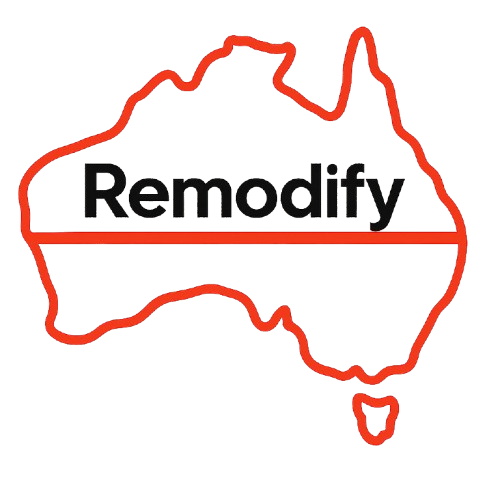
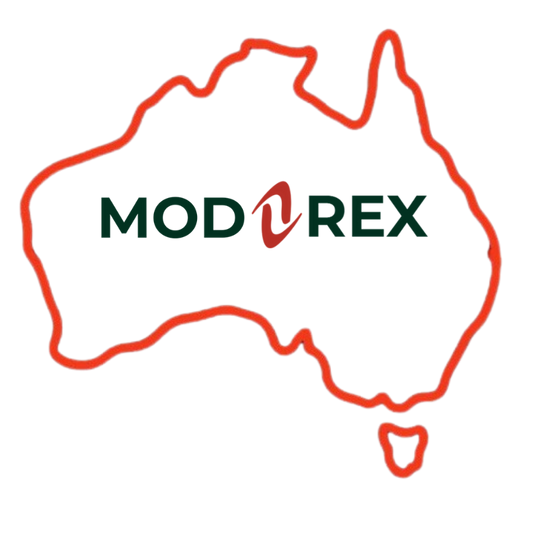
Feature/rob 23 11 (#42)
* changed colour and new logo

* changed_aus_map

Changed region(s): [[0.03, 0.12, 0.96, 0.9], [0.57, 0.03, 0.81, 0.27], [0.42, 0.06, 0.6, 0.18]]

diff --git a/src/pages/Landing.js b/src/pages/Landing.js
@@ -21,6 +21,8 @@ const Landing = () => {
   const [keyword, setKeyword] = useState('');
   const [anyPartSearch, setAnyPartSearch] = useState('');
   const [showManualSearch, setShowManualSearch] = useState(false);
+  const [showSlogan, setShowSlogan] = useState(true);
+  const [isSearchFocused, setIsSearchFocused] = useState(false);
   const navigate = useNavigate();
 
   const carBrands = [
@@ -130,6 +132,22 @@ const Landing = () => {
     navigate(`/results?${queryParams}`);
   };
 
+  const searchInputStyle = {
+    width: '100%',
+    padding: '18px 44px 18px 28px',
+    fontSize: '1.1rem',
+    borderRadius: '30px',
+    border: '1px solid #dee2e6',
+    boxShadow: '0 8px 16px rgba(0,0,0,0.1)',
+    transition: 'all 0.2s ease-in-out',
+  };
+
+  const searchInputStyleFocused = {
+    ...searchInputStyle,
+    borderColor: '#013120',
+    boxShadow: '0 8px 20px rgba(1, 49, 32, 0.2)',
+  };
+
   return (
     <>
       <div className="hero-background">
@@ -139,24 +157,29 @@ const Landing = () => {
     </h1>
 
     <Row className="justify-content-center mb-2">
-      <Col md={10} lg={8}>
+      <Col md={10} lg={10}>
         <Form.Group controlId="formAnyPartSearch" style={{ position: 'relative' }}>
+          {showSlogan && <AnimatedSlogan />}
           <Form.Control
             type="text"
-            placeholder="Search any part"
+            placeholder={showSlogan ? '' : "Search any part"}
             className="form-control-lg"
             value={anyPartSearch}
             onChange={handleAnyPartSearchChange}
-            style={{
-              width: '100%',
-              padding: '14px 44px 14px 20px',
-              fontSize: '1rem',
-              border: '1px solid #ccc',
-              borderRadius: '6px',
+            onFocus={() => {
+              setShowSlogan(false);
+              setIsSearchFocused(true);
             }}
+            onBlur={() => {
+              if (!anyPartSearch) {
+                  setShowSlogan(true);
+              }
+              setIsSearchFocused(false);
+            }}
+            style={isSearchFocused ? searchInputStyleFocused : searchInputStyle}
           />
           <FaSearch
-            style={{ position: 'absolute', right: 18, top: '50%', transform: 'translateY(-50%)', color: '#b01c1c', fontSize: '1.2rem', cursor: 'pointer', zIndex: 2 }}
+            style={{ position: 'absolute', right: 28, top: '50%', transform: 'translateY(-50%)', color: '#013120', fontSize: '1.2rem', cursor: 'pointer', zIndex: 2 }}
             onClick={handleSearch}
             title="Search"
             tabIndex={0}
@@ -276,16 +299,6 @@ const Landing = () => {
     )}
   </Container>
 
-    {/* Slogan below searching fields, hidden when manual search is open */}
-    {!showManualSearch && (
-      <Container>
-        <Row className="justify-content-center">
-          <Col md={10} lg={8}>
-            <AnimatedSlogan />
-          </Col>
-        </Row>
-      </Container>
-    )}
     <div className="curve-divider">
       <svg viewBox="0 0 1440 320" xmlns="http://www.w3.org/2000/svg">
         <path
@@ -364,89 +377,69 @@ const SLOGAN_WORDS = ['mum bus', 'show pony', 'pavement princess', 'weekend warr
 
 // Animated slogan component
 const AnimatedSlogan = () => {
-  const words = SLOGAN_WORDS;
-  const [index, setIndex] = useState(0);
-  const [display, setDisplay] = useState('');
-  const [deleting, setDeleting] = useState(false);
-  const [charIndex, setCharIndex] = useState(0);
-  const [caretBlink, setCaretBlink] = useState(false);
-  const [sloganError, setSloganError] = useState('');
+    const words = SLOGAN_WORDS;
+    const [index, setIndex] = useState(0);
+    const [display, setDisplay] = useState('');
+    const [deleting, setDeleting] = useState(false);
+    const [charIndex, setCharIndex] = useState(0);
+    const [caretBlink, setCaretBlink] = useState(false);
 
-  useEffect(() => {
-    let timeout;
-    try {
-      if (!words || words.length === 0) return undefined;
-      const currentWord = words[index] || '';
+    useEffect(() => {
+        let timeout;
+        const currentWord = words[index] || '';
 
-      if (!deleting) {
-        // Typing (slower)
-        if (charIndex < currentWord.length) {
-          // ensure caret not blinking while typing
-          if (caretBlink) setCaretBlink(false);
-          // Slightly slower typing
-          timeout = setTimeout(() => {
-            setDisplay(currentWord.slice(0, charIndex + 1));
-            setCharIndex(ci => ci + 1);
-          }, 220);
+        if (!deleting) {
+            // Typing
+            if (charIndex < currentWord.length) {
+                if (caretBlink) setCaretBlink(false);
+                timeout = setTimeout(() => {
+                    setDisplay(currentWord.slice(0, charIndex + 1));
+                    setCharIndex(ci => ci + 1);
+                }, 220);
+            } else {
+                // Pause, then delete
+                if (!caretBlink) setCaretBlink(true);
+                timeout = setTimeout(() => {
+                    setDeleting(true);
+                    setCaretBlink(false);
+                }, 1600);
+            }
         } else {
-          // Word fully typed: enable caret blink during the pause, then delete
-          if (!caretBlink) setCaretBlink(true);
-          timeout = setTimeout(() => {
-            setDeleting(true);
-            setCaretBlink(false);
-          }, 1600);
+            // Deleting
+            if (charIndex > 0) {
+                timeout = setTimeout(() => {
+                    setDisplay(currentWord.slice(0, charIndex - 1));
+                    setCharIndex(ci => ci - 1);
+                }, 150);
+            } else {
+                // Move to next word
+                setDeleting(false);
+                setIndex(i => (i + 1) % words.length);
+                setCharIndex(0);
+                if (caretBlink) setCaretBlink(false);
+            }
         }
-      } else {
-        // Deleting (slower)
-        if (charIndex > 0) {
-          // Slightly slower deleting
-          timeout = setTimeout(() => {
-            setDisplay(currentWord.slice(0, charIndex - 1));
-            setCharIndex(ci => ci - 1);
-          }, 150);
-        } else {
-          // Move to next word
-          setDeleting(false);
-          setIndex(i => (i + 1) % words.length);
-          setCharIndex(0);
-          // ensure caret is off while starting to type next word
-          if (caretBlink) setCaretBlink(false);
-        }
-      }
-    } catch (err) {
-      console.error('AnimatedSlogan error', err);
-      setSloganError(err?.message || String(err));
-    }
 
-    return () => clearTimeout(timeout);
-  }, [charIndex, deleting, index, words, caretBlink]);
+        return () => clearTimeout(timeout);
+    }, [charIndex, deleting, index, words, caretBlink]);
 
-  return (
-    <div>
-  <div className="text-center mb-5 animated-slogan" style={{
-        fontSize: '2.2rem',
-        color: '#E63946',
-        fontWeight: 800,
-  fontStyle: 'normal',
-        letterSpacing: '1.5px',
-        textShadow: '0 2px 12px rgba(230,57,70,0.10)',
-        background: 'linear-gradient(90deg, #fff 60%, #ffeaea 100%)',
-        borderRadius: '1.5rem',
-        padding: '1.2rem 0 1.2rem 0',
-        margin: '60px auto 0 auto',
-        maxWidth: '100%',
-        boxShadow: '0 4px 24px rgba(230,57,70,0.10)'
-      }}>
-        <span style={{ display: 'inline-flex', alignItems: 'center', gap: '0.5rem', flexWrap: 'nowrap' }}>
-          <span>Securely find parts for your</span>
-          <span className="animated-slogan-word" style={{ color: '#000000', display: 'inline-block', whiteSpace: 'nowrap' }}>{display}<span className={`animated-slogan-caret ${caretBlink ? 'blink' : ''}`} style={{ borderRight: '2px solid #000000', marginLeft: '4px' }} /></span>
-        </span>
-      </div>
-      {sloganError && (
-        <div style={{ color: 'red', textAlign: 'center' }}>Slogan error: {sloganError}</div>
-      )}
-    </div>
-  );
+    return (
+        <div style={{
+            position: 'absolute',
+            top: '50%',
+            left: '28px',
+            transform: 'translateY(-50%)',
+            zIndex: 1,
+            pointerEvents: 'none',
+            fontSize: '1.1rem',
+            color: '#6c757d',
+            whiteSpace: 'nowrap',
+        }}>
+            <span>Securely find parts for your </span>
+            <span style={{ color: '#212529', fontWeight: '500' }}>{display}</span>
+            <span className={`animated-slogan-caret ${caretBlink ? 'blink' : ''}`} style={{ borderRight: '2px solid #212529', marginLeft: '2px', display: 'inline-block', height: '1rem' }} />
+        </div>
+    );
 };
 
 export default Landing;

diff --git a/src/pages/About.js b/src/pages/About.js
@@ -20,10 +20,10 @@ const About = () => {
                 As car enthusiasts, we understand that building your dream rig is no easy feat. But we also understand that you shouldn’t have to settle for less or being ripped off.
               </p>
               <p className="text-left">
-                At Remodify, we value ALL motoring enthusiasts. No matter what your project – a car, bike, buggy or even a racing lawn mower, we are here to help you make your dream vehicle a reality and do it without breaking the bank. 
+                At ModRex, we value ALL motoring enthusiasts. No matter what your project – a car, bike, buggy or even a racing lawn mower, we are here to help you make your dream vehicle a reality and do it without breaking the bank. 
               </p>
               <p className="text-left">
-                Remodify connects enthusiasts to get the best parts at the best prices. Why buy brand new when you can buy almost brand new and pay half the price? And forget about being limited to the parts in your local area. Being from a regional city, we get it. Remodify will connect you with people all over the globe and make shipping and transactions safer and easier than ever.
+                ModRex connects enthusiasts to get the best parts at the best prices. Why buy brand new when you can buy almost brand new and pay half the price? And forget about being limited to the parts in your local area. Being from a regional city, we get it. Remodify will connect you with people all over the globe and make shipping and transactions safer and easier than ever.
               </p>
               <p className="text-left">
                 Got a part to sell? Want to buy a part? Remodify is your one-stop solution.
@@ -32,7 +32,7 @@ const About = () => {
                 So, what are you waiting for? 
               </p>
               <p className="text-left">
-                Happy Remodifying!
+                Happy modifying with ModRex!
               </p>
             </div>
           </Col>

diff --git a/src/App.js b/src/App.js
@@ -121,14 +121,14 @@ function App() {
                       as={Link}
                       to="/create-listing"
                       className="ms-2"
-                      style={{ color: '#E63946', fontWeight: 700, fontSize: '1.1rem', border: '2px solid #E63946', borderRadius: '2rem', padding: '0.3rem 1.2rem', background: 'white', transition: 'background 0.2s, color 0.2s' }}
+                      style={{ color: '#E63946', fontWeight: 700, fontSize: '1.1rem', border: '2px solid rgba(230, 57, 70, 1)', borderRadius: '2rem', padding: '0.3rem 1.2rem', background: 'white', transition: 'background 0.2s, color 0.2s' }}
                       onMouseOver={e => { e.target.style.background = '#E63946'; e.target.style.color = 'white'; }}
                       onMouseOut={e => { e.target.style.background = 'white'; e.target.style.color = '#E63946'; }}
                     >Sell your part</Nav.Link>
                     {authLoading ? null : user ? (
                       <div style={{ marginLeft: '2.5rem' }}><ProfileIcon /></div>
                     ) : (
-                      <Nav.Link as={Link} to="/login" className="btn ms-2" style={{ backgroundColor: '#FF6600', color: 'white', fontWeight: 600, borderRadius: '2rem', padding: '0.5rem 2rem', fontSize: '1.1rem', boxShadow: '0 2px 8px rgba(230,57,70,0.10)' }}>Sign up/Log in</Nav.Link>
+                      <Nav.Link as={Link} to="/login" className="btn ms-2" style={{ backgroundColor: 'rgba(230, 57, 70, 1)', color: 'white', fontWeight: 600, borderRadius: '2rem', padding: '0.5rem 2rem', fontSize: '1.1rem', boxShadow: '0 2px 8px rgba(230,57,70,0.10)' }}>Sign up/Log in</Nav.Link>
                     )}
                   </div>
                 </Nav>

diff --git a/src/pages/Contact.js b/src/pages/Contact.js
@@ -56,11 +56,11 @@ const Contact = () => {
         <Container>
           <h2 className="title-underline-2" style={{ textAlign: 'left', fontSize: '2.5rem', color: '#E63946', fontWeight: 700 }}>Meet the Team</h2>
           <p>
-            G'day and Welcome to Remodify!<br /><br />
+            G'day and Welcome to ModRex!<br /><br />
             Thanks for taking a look around. We hope we have been useful to you in finding what you need.<br /><br />
             We're Robert and Mark - two uni students studying medicine and commerce full time, while working part time. Sometimes, as with all of us, life gets a bit hectic. This being so, we mightn't be able to get back to you as fast as some other websites may. Nevertheless, we will endeavour to get back to you as soon as possible.<br /><br />
             We would love for you to leave feedback - any feedback whether positive or negative is constructive to us.<br /><br />
-            We look forward to hearing from you. Happy Remodifying!<br /><br />
+            We look forward to hearing from you. Happy modifying with ModRex!<br /><br />
             Mark and Rob.
           </p>
         </Container>

diff --git a/src/pages/CreateListing.js b/src/pages/CreateListing.js
@@ -409,7 +409,7 @@ const CreateListing = () => {
       {!user && (
         <div style={{ display: 'flex', justifyContent: 'center', margin: '2.5rem 0 2rem 0' }}>
           <Button
-            style={{ backgroundColor: '#FF6600', borderColor: '#FF6600', color: 'white', fontWeight: 600, borderRadius: '2rem', padding: '0.7rem 2.5rem', fontSize: '1.15rem' }}
+            style={{ backgroundColor: 'rgba(30, 78, 172, 1)', borderColor: 'rgba(30, 78, 172, 1)', color: 'white', fontWeight: 600, borderRadius: '2rem', padding: '0.7rem 2.5rem', fontSize: '1.15rem' }}
             onClick={() => navigate('/login?redirect=/create-listing')}
           >
             Sign up or Log in

diff --git a/src/App.css b/src/App.css
@@ -139,7 +139,7 @@
   padding: 24px;
   position: relative;
   z-index: 2;
-  max-width: 760px;
+  max-width: 960px;
   margin: 0 auto;
 }
 
@@ -157,7 +157,7 @@
     linear-gradient(
       to bottom,
       rgba(198, 32, 32, 0.92),
-      rgba(255, 102, 0, 0.75),
+      rgba(30, 79, 172, 0.75),
       rgba(240, 240, 240, 0.95)
     ),
     url('./assets/hero.bg.png');
